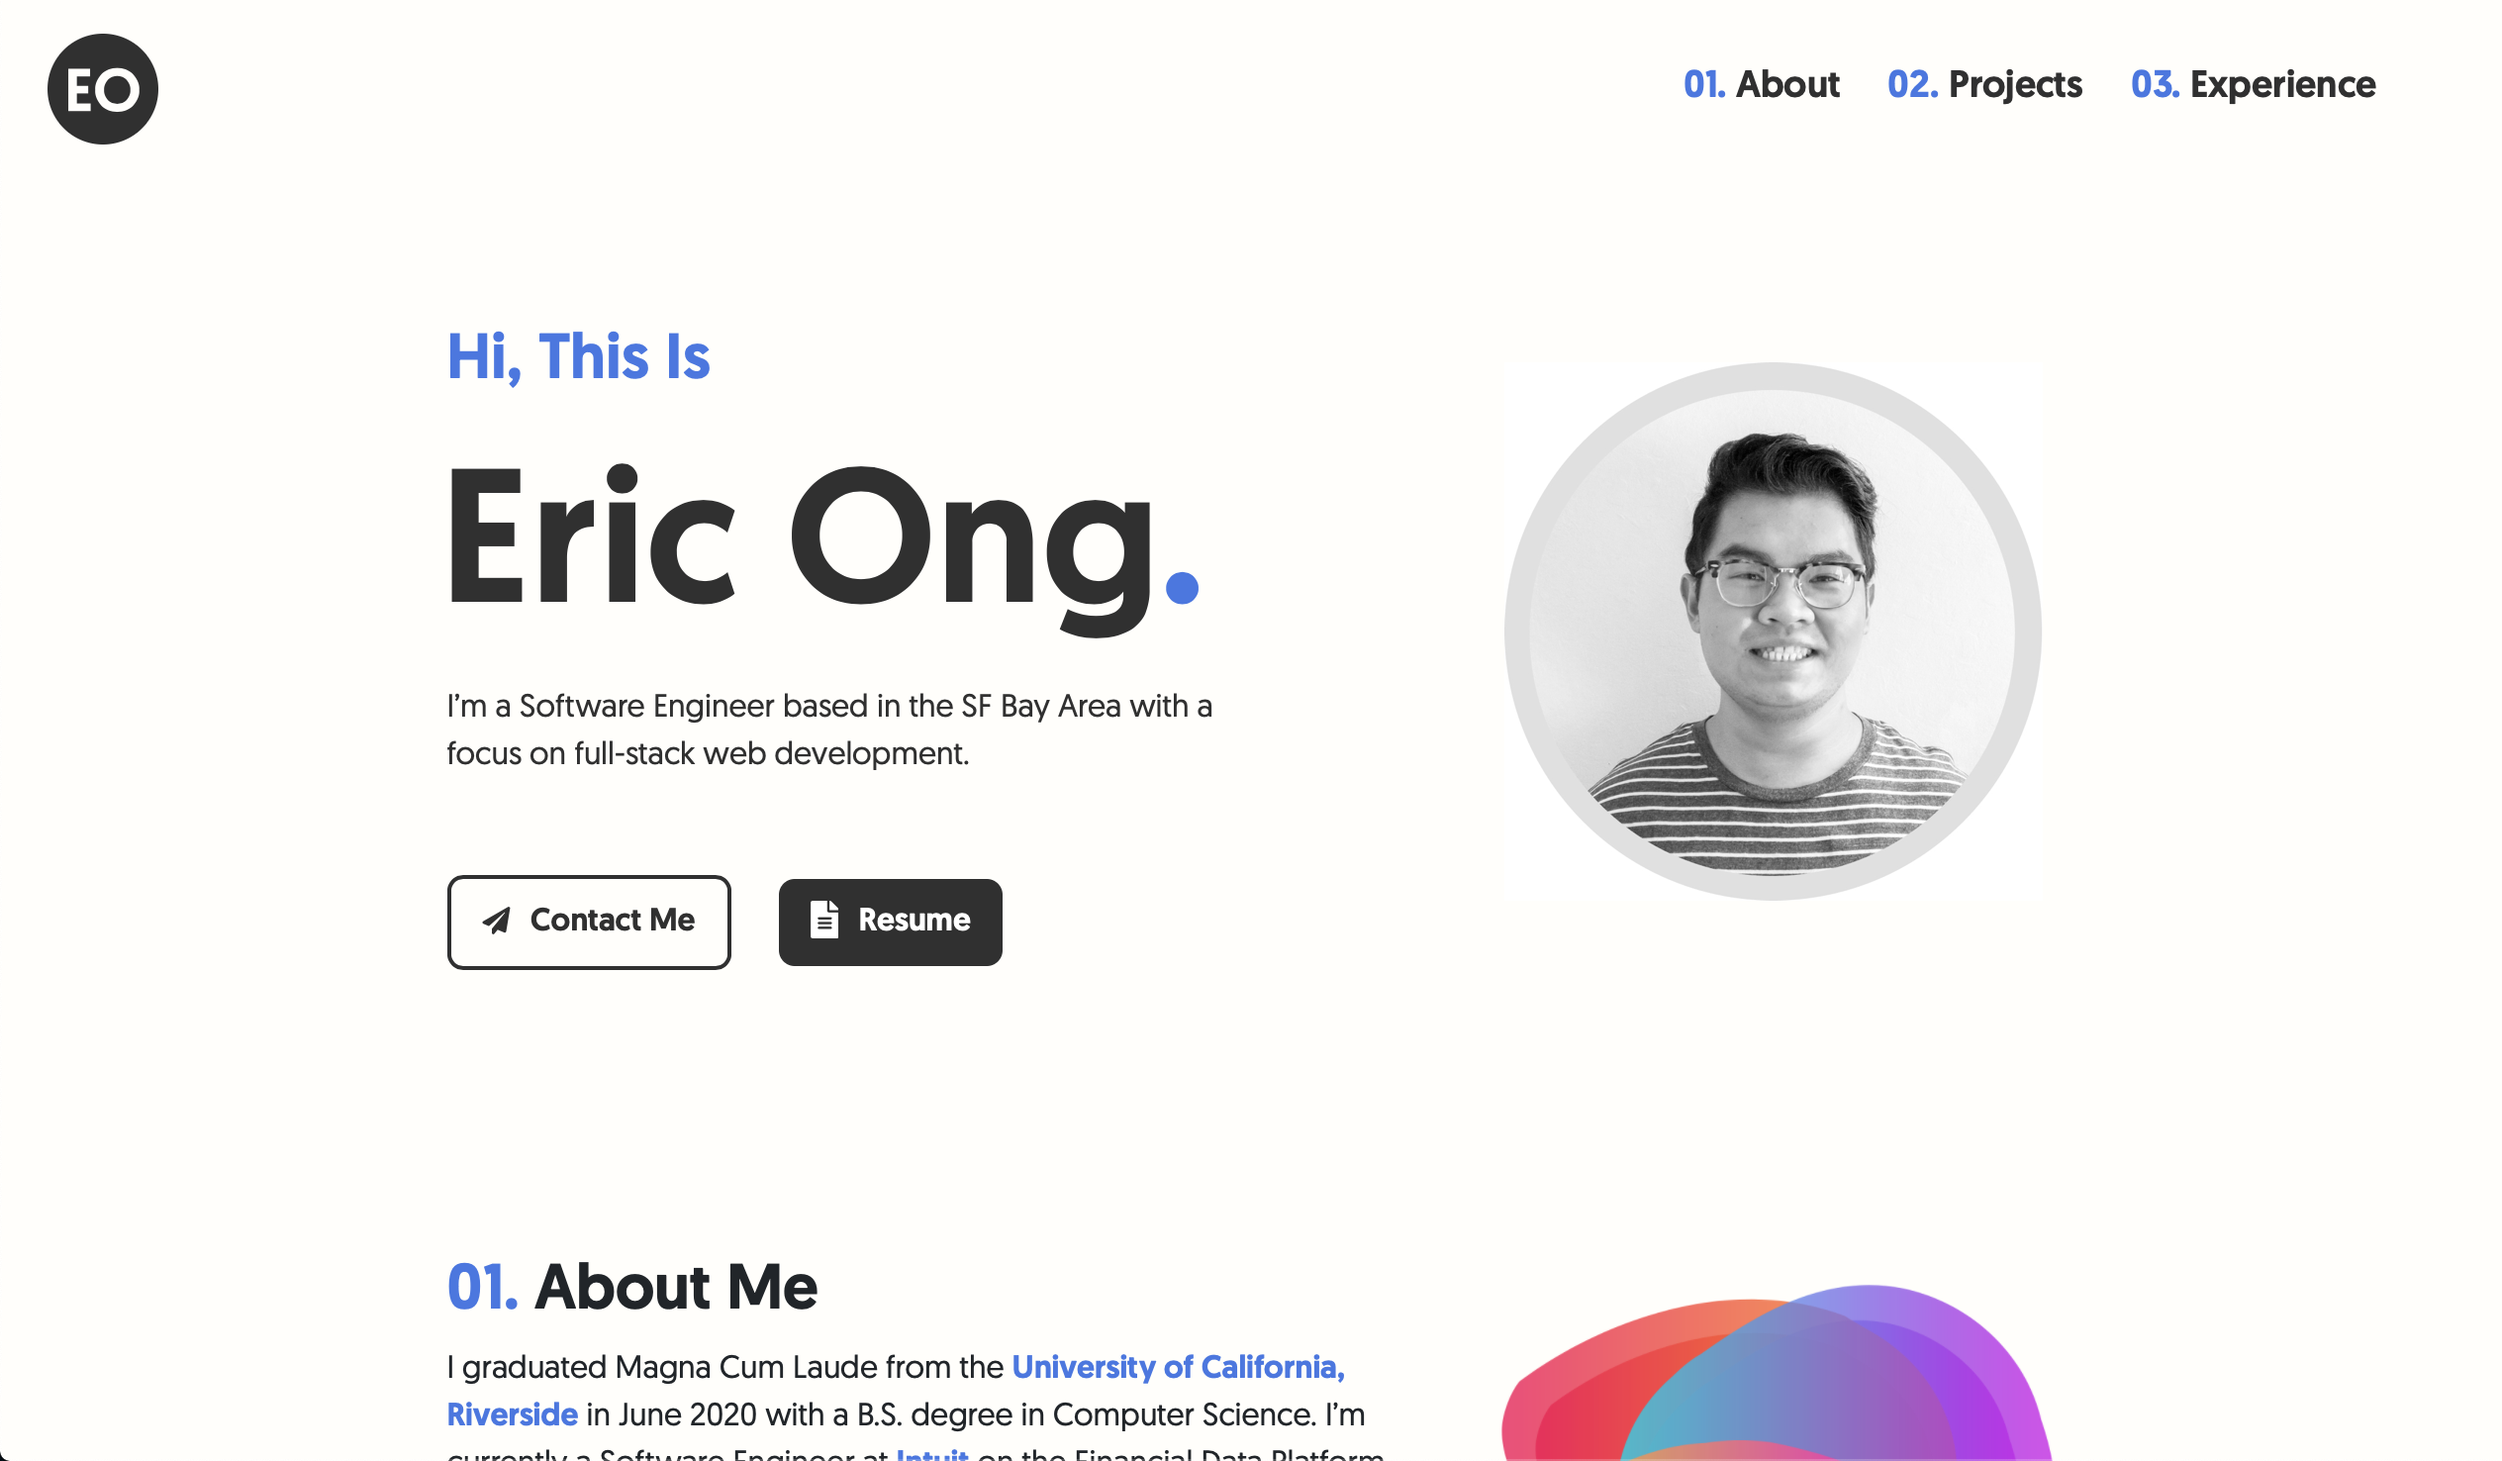
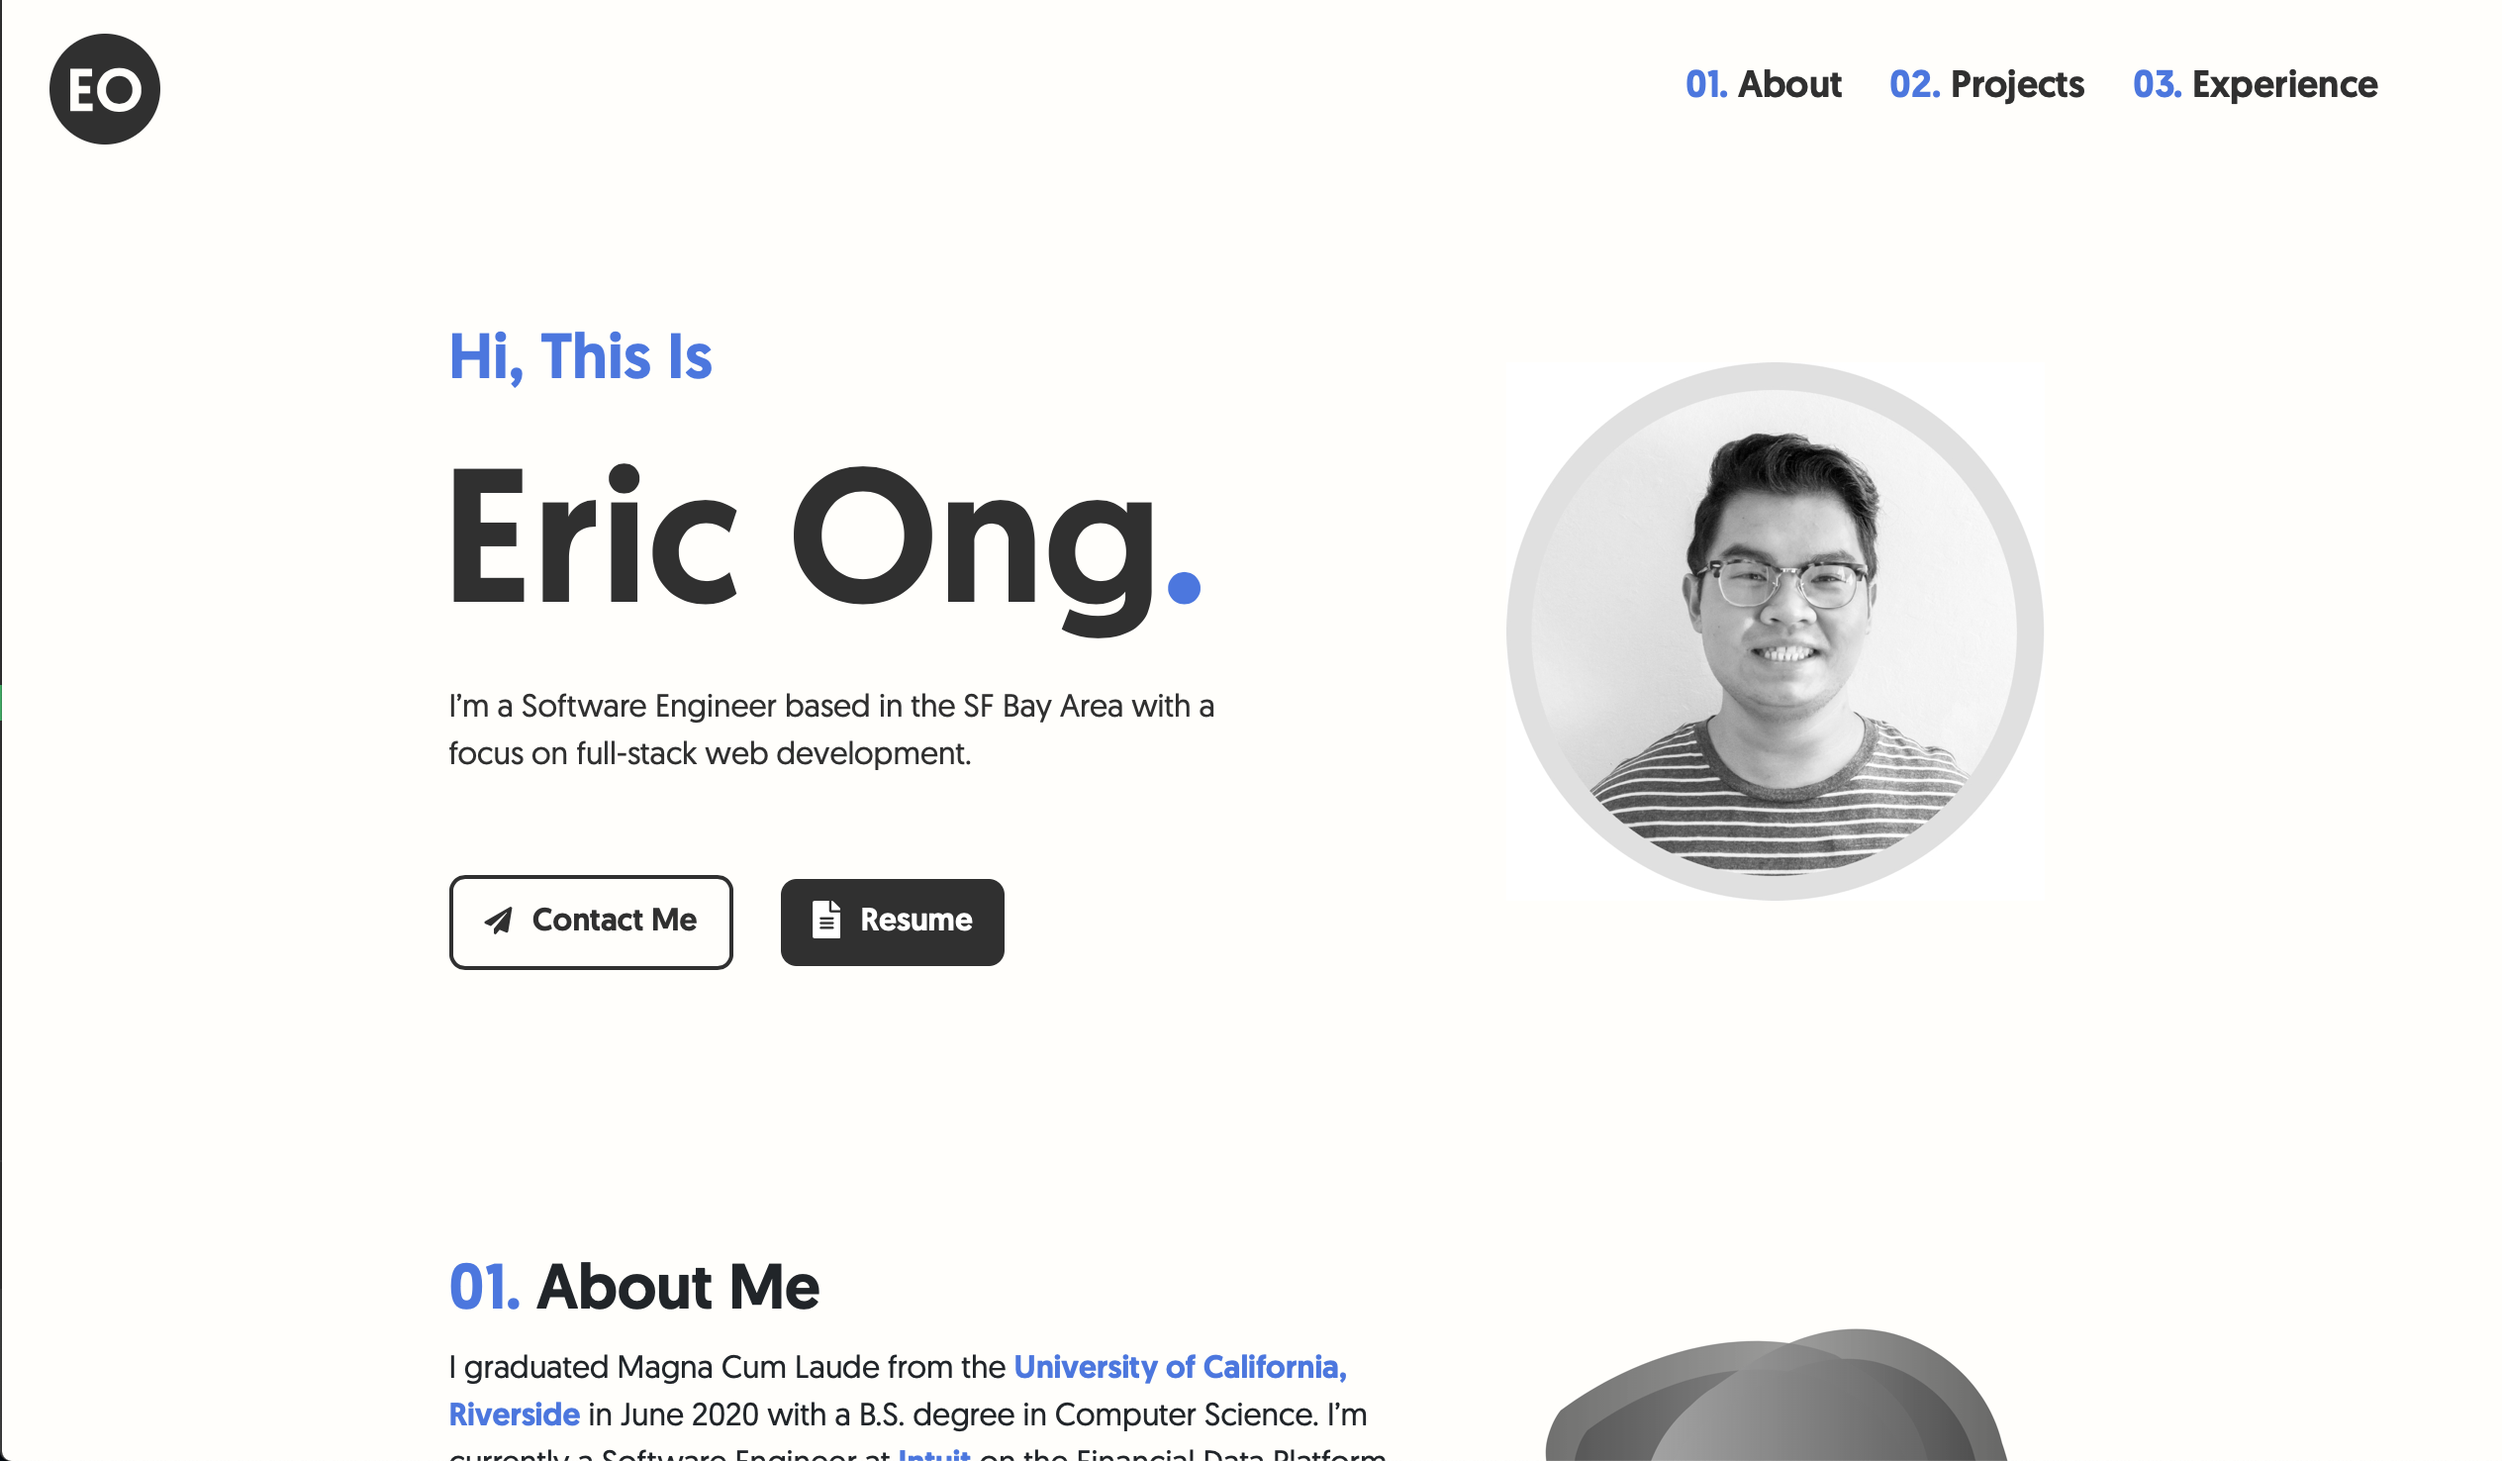
Update about image

diff --git a/src/sections/About/About.js b/src/sections/About/About.js
@@ -1,8 +1,19 @@
+import { useState } from 'react';
 import styles from './About.module.css';
 import { Fade } from 'react-reveal';
 import { revealProps } from '../../shared/constants';
 
 export default function About() {
+  const [hovered, setHovered] = useState(false);
+
+  const handleImageHover = () => setHovered(true);
+
+  const handleImageUnhover = () => setHovered(false);
+
+  const renderAnimation = () => {
+    return hovered ? `${styles.animate}` : "";
+  }
+
   return (
     <section className={`${styles.section} container-fluid`} id="about">
       <div className="row justify-content-center">
@@ -47,10 +58,13 @@ export default function About() {
         </div>
         <div className="col-lg-3 col-md-4">
           <div className={styles.imageContainer}>
-            {/* <video className={styles.image} autoPlay loop muted>
-              <source src="/imgs/about/spin.mp4" type="video/mp4" />
-            </video> */}
-            <img src="/imgs/about/abstract.png" alt="lines" className={styles.image} />
+            <img
+              src="/imgs/about/abstract.png"
+              alt="lines"
+              className={`${styles.image} ${renderAnimation()}`}
+              onMouseEnter={handleImageHover}
+              onMouseLeave={handleImageUnhover}
+            />
           </div>
         </div>
       </div>

diff --git a/src/sections/About/About.module.css b/src/sections/About/About.module.css
@@ -49,7 +49,7 @@
   }
   50% {
     filter: saturate(1);
-    transform: scale(1.2);
+    transform: scale(1.05);
   }
 }
 
@@ -58,5 +58,10 @@
   margin-top: 1em;
   padding: 1em;
   transition: all 0.25s ease;
-  animation: pulse 5s linear infinite;
+  filter: saturate(0);
+  /* animation: pulse 5s linear infinite; */
+}
+
+.animate {
+  animation: pulse 2s linear infinite;
 }
